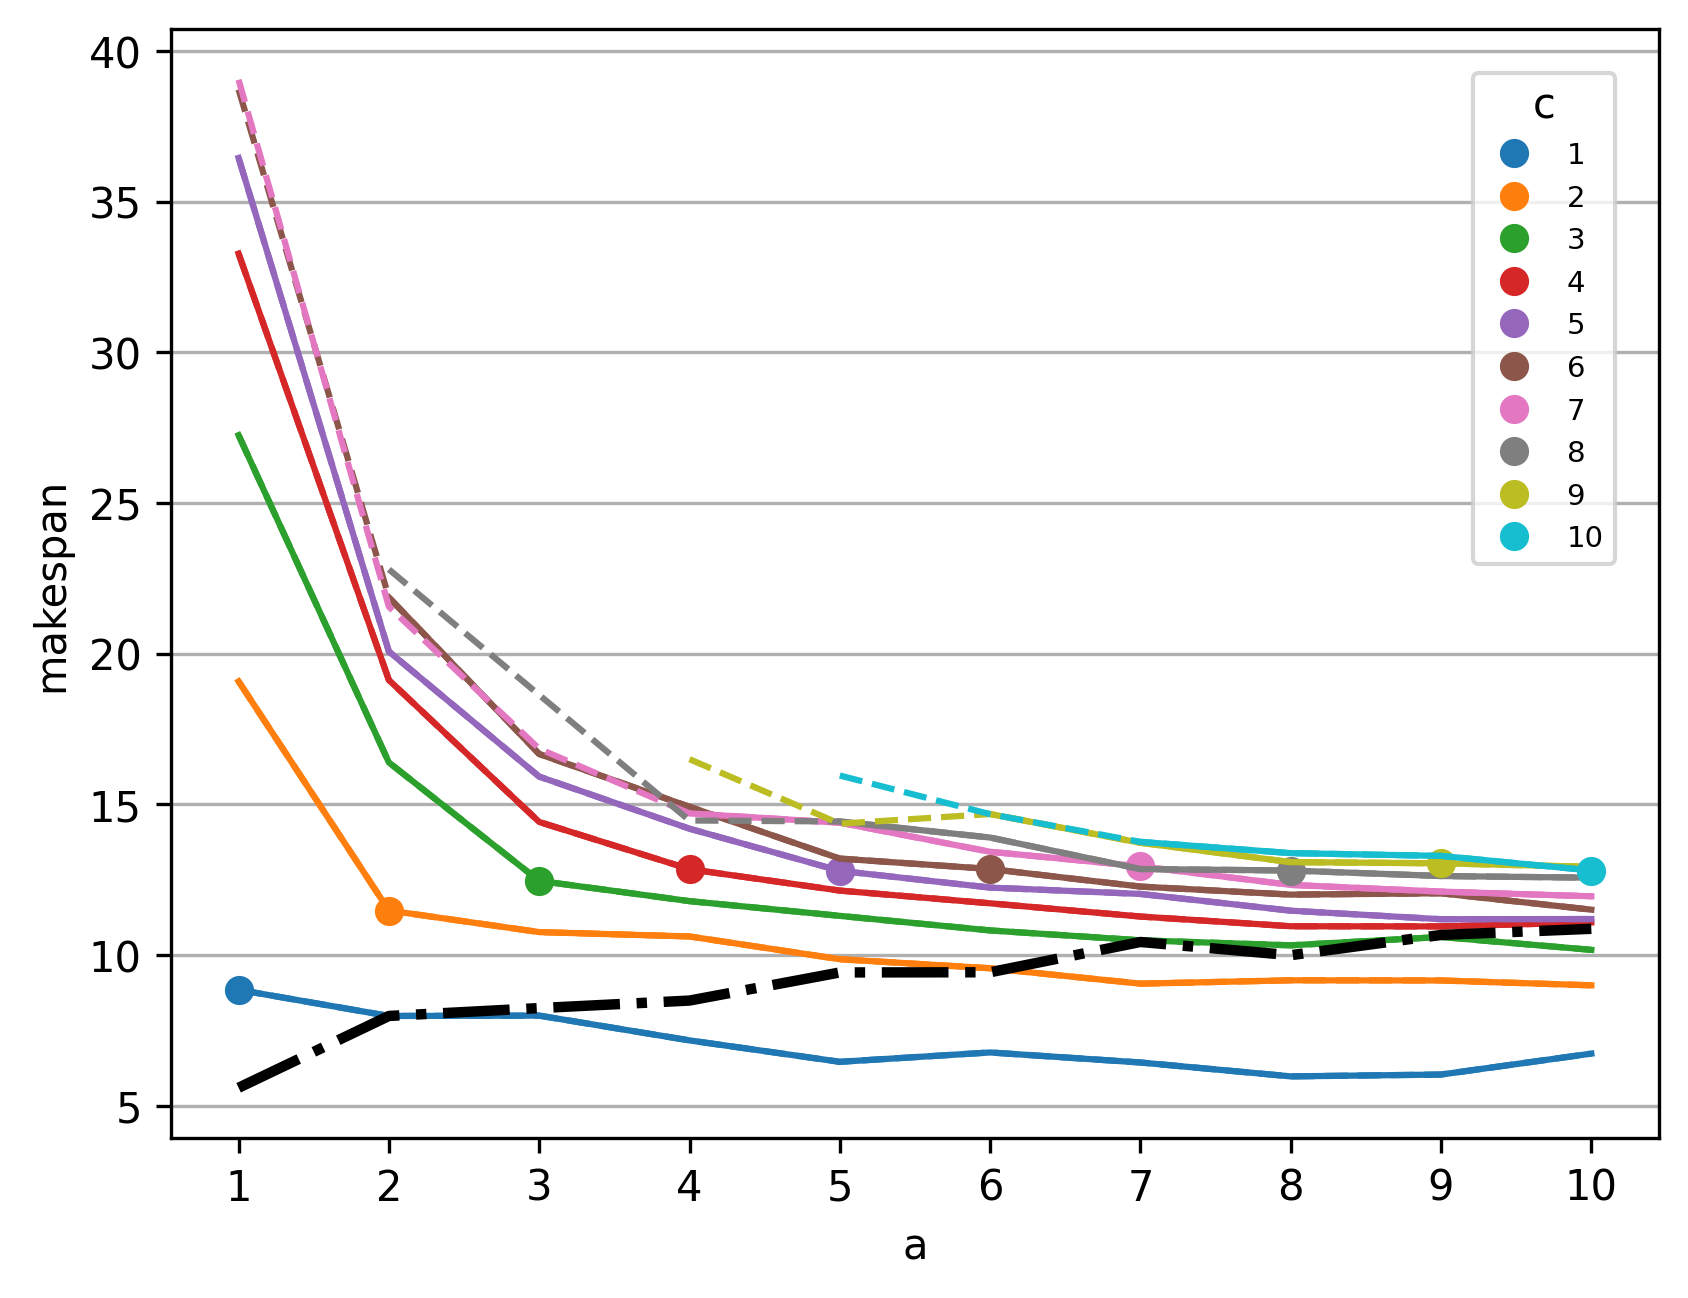
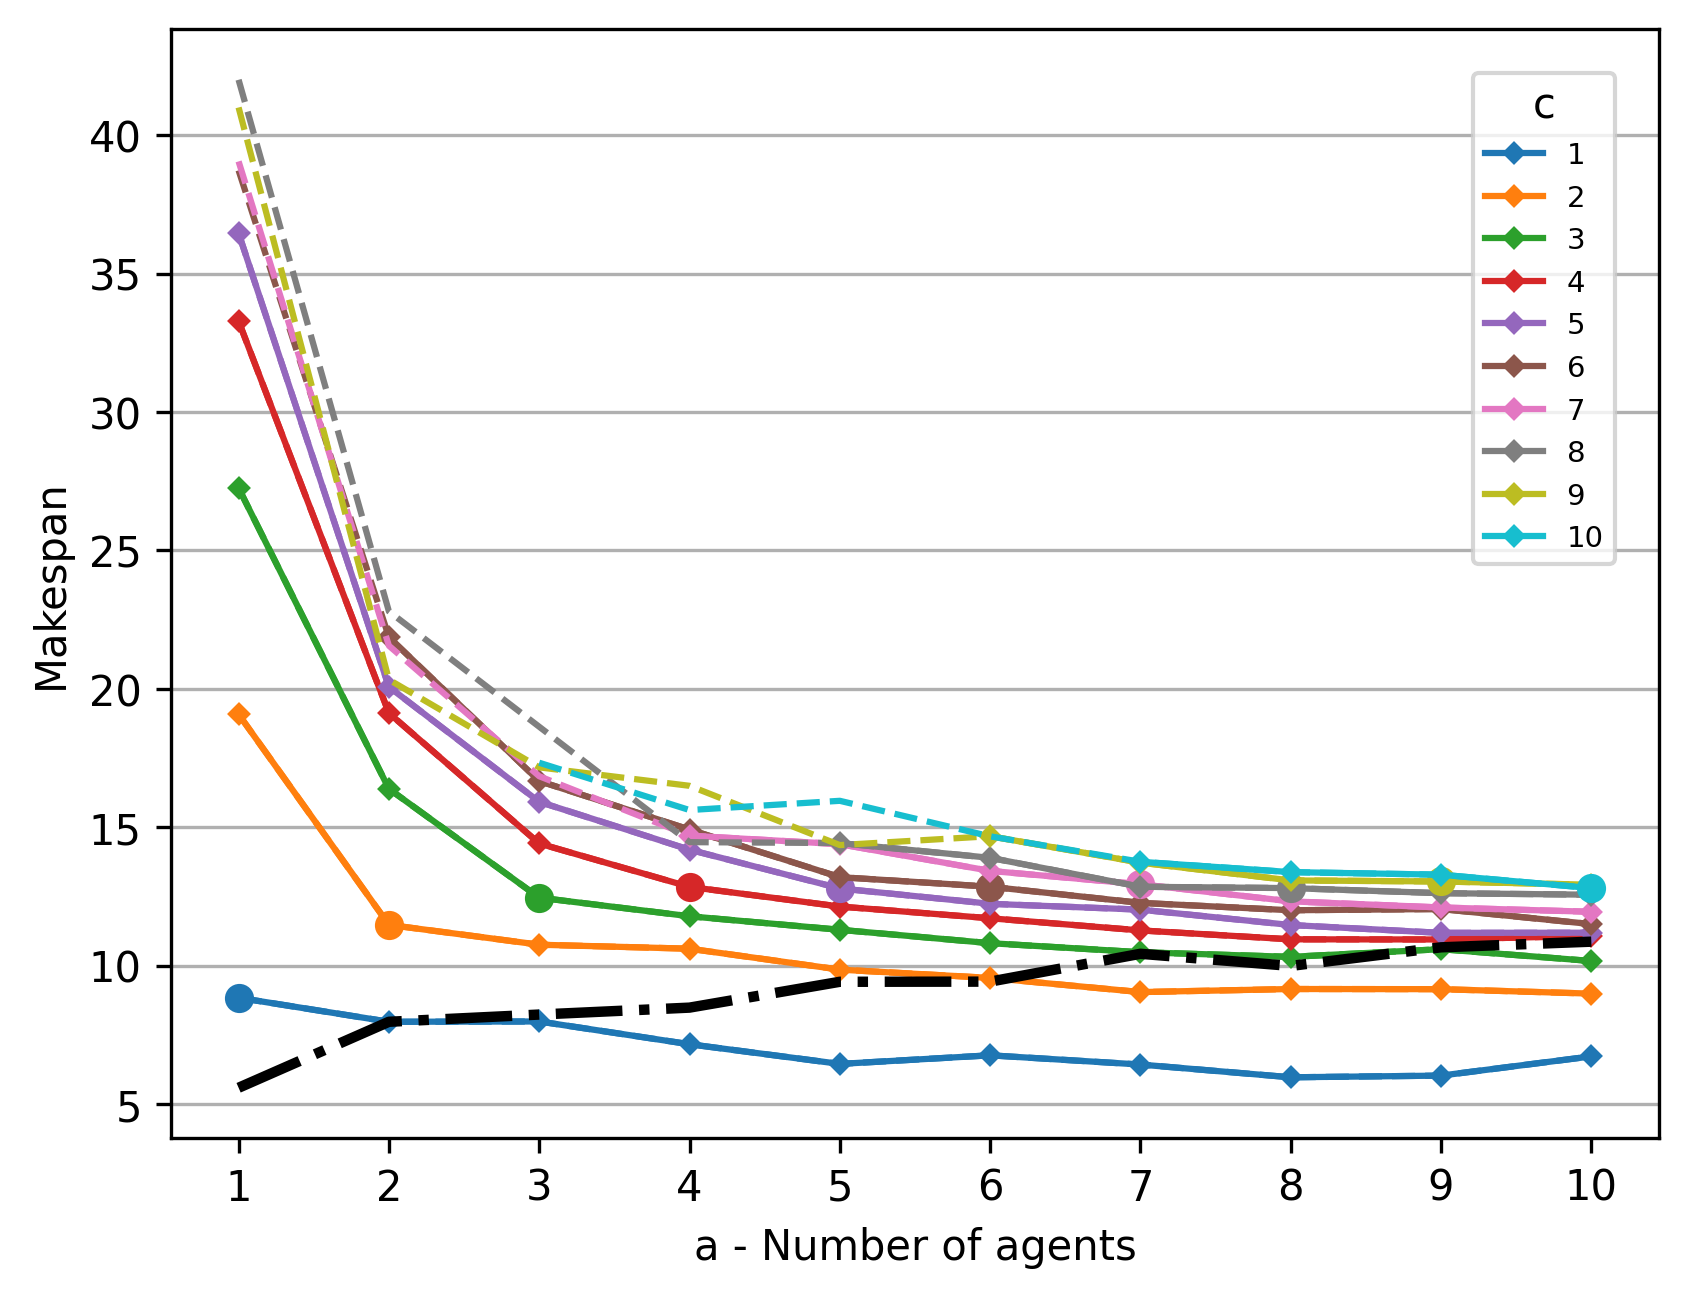
Improve input plots

diff --git a/input/evaluate.py b/input/evaluate.py
@@ -35,13 +35,15 @@ def process(data: dict, filename: str, ylabel: str, simple=False, lloc='upper ri
 
     for i in range(1, 10 + 1):
         d = data[i].values()
-        partial = [math.nan] + list(map(lambda x: math.nan if x[1] >= .9 else x[0], d))
+        partial = [math.nan] + list(map(lambda x: x[0], d))
         axMain.plot(partial, linestyle='dashed', color=colors[c])
         full = [math.nan] + list(map(lambda x: math.nan if x[1] > .5 else x[0], d))
-        axMain.plot(full, color=colors[c])
+        axMain.plot(full, color=colors[c], marker='D',markersize=3, label=i if simple else None)
         if not simple:
             axLin.plot([math.nan] + list(map(lambda x: x[1] if x[1] > 0 else 0, d)), color=colors[c])
-        axMain.plot(i, data[i][i][0], 'o', color=colors[c], label=i)
+            with_marker = [math.nan] + list(map(lambda x: x[1] if x[1] > .03 else math.nan, d))
+            axLin.plot(with_marker, color=colors[c], marker='D', markersize=2, label=i)
+        axMain.plot(i, data[i][i][0], 'o', color=colors[c])
         c += 1
 
     full = [math.nan] + list(map(lambda x: math.nan if x[1] > .5 else x[0], data['r'].values()))
@@ -54,10 +56,10 @@ def process(data: dict, filename: str, ylabel: str, simple=False, lloc='upper ri
         axLin.xaxis.set_ticks_position('top')
         plt.setp(axLin.get_xticklabels(), visible=False)
         axLin.axhline(y=0, color='black')
-        axLin.set_ylabel('unsolved (%)')
+        axLin.set_ylabel('Unsolved (%)')
 
     axMain.set_ylabel(ylabel)
-    axMain.set_xlabel('a')
+    axMain.set_xlabel('a - Number of agents')
     axMain.xaxis.set_major_locator(ticker.MultipleLocator(1))
     if not simple:
         axLin.yaxis.set_minor_locator(ticker.MultipleLocator(.1))
@@ -65,7 +67,7 @@ def process(data: dict, filename: str, ylabel: str, simple=False, lloc='upper ri
     axMain.yaxis.grid(True)
     if not simple:
         axLin.yaxis.grid(True)
-        axLin.legend(range(1, 10 + 1), title='c', prop={'size': 7}, framealpha=1, borderaxespad=1, loc=lloc)
+        axLin.legend(title='c', prop={'size': 7}, framealpha=1, borderaxespad=1, loc=lloc)
     else:
         axMain.legend(title='c', prop={'size': 7}, borderaxespad=1.5, loc=lloc)
     plt.savefig(filename, dpi=300, bbox_inches = 'tight')
@@ -156,6 +158,6 @@ if __name__ == '__main__':
 
     print("The average relative standard deviation of the parameter sets is {:4.2f}%".format(avgrelstdpar(mat) * 100))
 
-    do('t_total', {'ylabel': 'runtime (s)', 'filename': 'runtime'})
-    do('makespan', {'simple': True, 'ylabel': 'makespan', 'filename': 'makespan'})
-    do('n_literals', {'simple': True, 'ylabel': 'literals', 'filename': 'literals', 'lloc': 'upper left'})
+    do('t_total', {'ylabel': 'Runtime (s)', 'filename': 'runtime'})
+    do('makespan', {'simple': True, 'ylabel': 'Makespan', 'filename': 'makespan'})
+    do('n_literals', {'simple': True, 'ylabel': 'Number of literals (millions)', 'filename': 'literals', 'lloc': 'upper left'})
